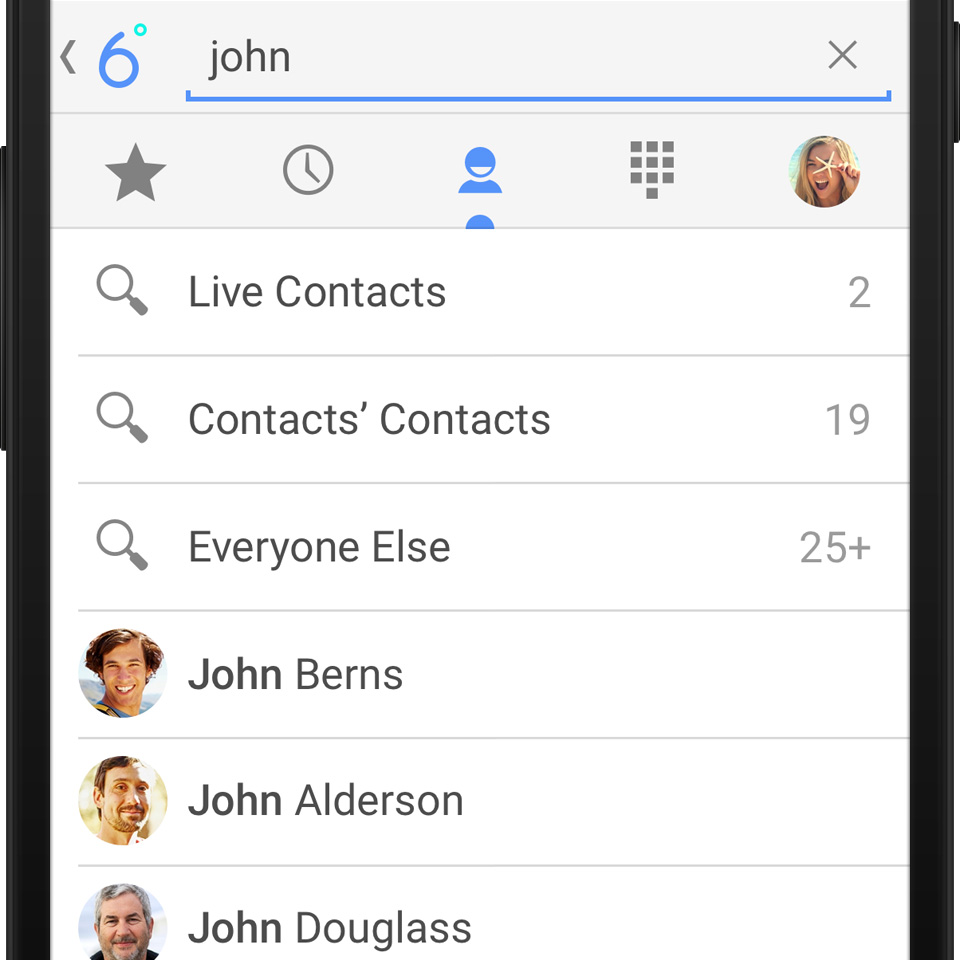
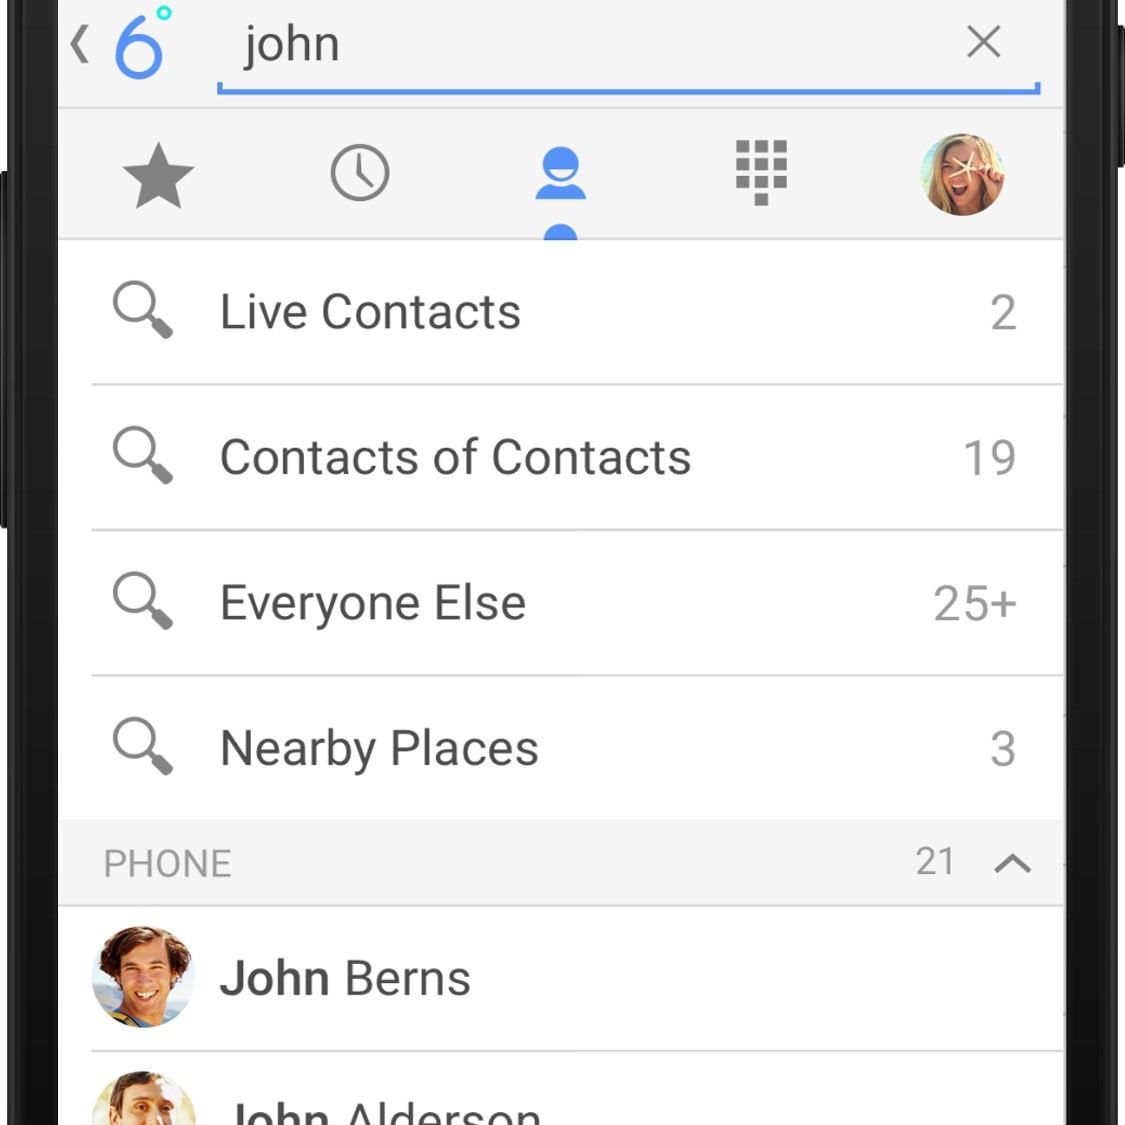
Updating the Search section
Added a new line in the photo for Nearby Places, and updated the text

diff --git a/index.html b/index.html
@@ -54,6 +54,7 @@
     <div class="feature-content">
       <h3>Search and discover.</h3>
       <p>Find and get introduced to people through mutual contacts. Search and connect with anyone.</p>
+      <p>Search for nearby places - cafes, shops, anything you want - right from your phonebook.</p>
     </div>
   </div>
 </div>
